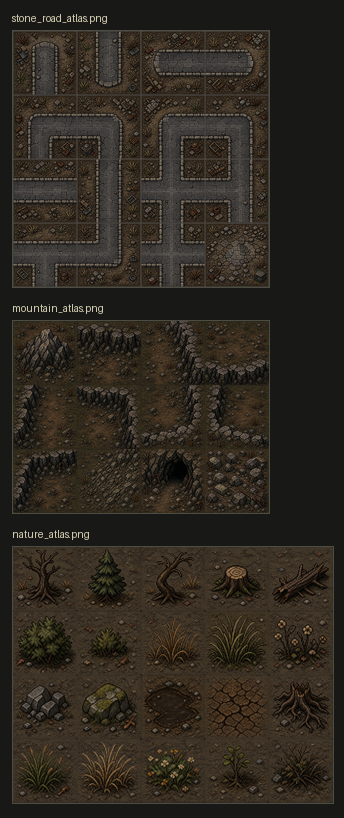
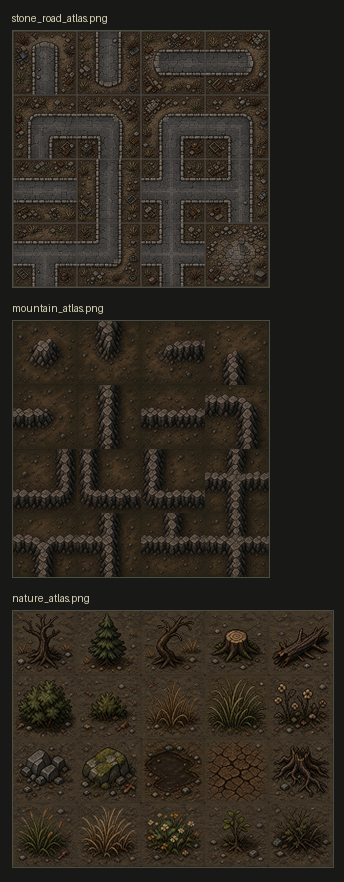
Fix mountain atlas connectivity

Changed region(s): [[0.0291, 0.0, 0.9884, 1.0]]

diff --git a/tools/art_pipeline/generate_nature_environment_assets.py b/tools/art_pipeline/generate_nature_environment_assets.py
@@ -41,23 +41,27 @@ ATLASES = {
         ],
     },
     "mountain_atlas": {
-        "source": RAW / "imagegen_mountain_atlas_source.png",
+        "source": RAW / "imagegen_mountain_connectable_atlas_source.png",
         "output": TILES / "mountain_atlas.png",
         "columns": 4,
-        "rows": 3,
+        "rows": 4,
         "tiles": [
-            "mountain_center",
-            "mountain_edge_top",
-            "mountain_edge_right",
-            "mountain_edge_bottom",
-            "mountain_edge_left",
-            "mountain_corner_top_right",
-            "mountain_corner_bottom_right",
-            "mountain_corner_bottom_left",
-            "mountain_corner_top_left",
-            "gravel_slope",
-            "cave_mouth",
-            "boulder_field",
+            "mountain_isolated",
+            "mountain_end_north",
+            "mountain_end_east",
+            "mountain_end_south",
+            "mountain_end_west",
+            "mountain_straight_ns",
+            "mountain_straight_ew",
+            "mountain_corner_ne",
+            "mountain_corner_es",
+            "mountain_corner_sw",
+            "mountain_corner_wn",
+            "mountain_t_nes",
+            "mountain_t_esw",
+            "mountain_t_swn",
+            "mountain_t_wne",
+            "mountain_cross",
         ],
     },
     "nature_atlas": {
@@ -135,10 +139,10 @@ def choose_grid_runs(image: Image.Image, columns: int, rows: int) -> tuple[list[
     return vertical, horizontal
 
 
-def extract_atlas(source_path: Path, output_path: Path, columns: int, rows: int) -> None:
+def extract_cells(source_path: Path, columns: int, rows: int) -> list[Image.Image]:
     source = Image.open(source_path).convert("RGBA")
     vertical, horizontal = choose_grid_runs(source, columns, rows)
-    atlas = Image.new("RGBA", (columns * TILE, rows * TILE), (0, 0, 0, 0))
+    cells: list[Image.Image] = []
     for row in range(rows):
         for column in range(columns):
             left = vertical[column][1] + 1
@@ -146,8 +150,17 @@ def extract_atlas(source_path: Path, output_path: Path, columns: int, rows: int)
             top = horizontal[row][1] + 1
             bottom = horizontal[row + 1][0]
             cell = source.crop((left, top, right, bottom)).resize((TILE, TILE), Image.Resampling.LANCZOS)
-            cell = cell.convert("RGBA")
-            atlas.alpha_composite(cell, (column * TILE, row * TILE))
+            cells.append(cell.convert("RGBA"))
+    return cells
+
+
+def extract_atlas(source_path: Path, output_path: Path, columns: int, rows: int) -> None:
+    cells = extract_cells(source_path, columns, rows)
+    atlas = Image.new("RGBA", (columns * TILE, rows * TILE), (0, 0, 0, 0))
+    for index, cell in enumerate(cells):
+        column = index % columns
+        row = index // columns
+        atlas.alpha_composite(cell, (column * TILE, row * TILE))
     output_path.parent.mkdir(parents=True, exist_ok=True)
     atlas.save(output_path)
 
@@ -170,7 +183,50 @@ def build_preview(outputs: list[Path]) -> Path:
     return path
 
 
-def update_manifest(preview: Path) -> None:
+def build_mountain_connectivity_preview(mountain_atlas_path: Path) -> Path:
+    atlas = Image.open(mountain_atlas_path).convert("RGBA")
+    tile_names = {
+        "iso": 0,
+        "n": 1,
+        "e": 2,
+        "s": 3,
+        "w": 4,
+        "ns": 5,
+        "ew": 6,
+        "ne": 7,
+        "es": 8,
+        "sw": 9,
+        "wn": 10,
+        "nes": 11,
+        "esw": 12,
+        "swn": 13,
+        "wne": 14,
+        "cross": 15,
+    }
+    layout = [
+        ["iso", "n", "n", "iso", "iso", "iso"],
+        ["e", "cross", "cross", "ew", "es", "iso"],
+        ["iso", "ns", "iso", "iso", "ns", "iso"],
+        ["e", "wne", "ew", "ew", "swn", "w"],
+        ["iso", "s", "iso", "iso", "s", "iso"],
+    ]
+    preview = Image.new("RGBA", (len(layout[0]) * TILE, len(layout) * TILE), (30, 29, 24, 255))
+    for row_index, row in enumerate(layout):
+        for column_index, tile_name in enumerate(row):
+            tile_index = tile_names[tile_name]
+            tile = atlas.crop((
+                (tile_index % 4) * TILE,
+                (tile_index // 4) * TILE,
+                (tile_index % 4 + 1) * TILE,
+                (tile_index // 4 + 1) * TILE,
+            ))
+            preview.alpha_composite(tile, (column_index * TILE, row_index * TILE))
+    path = RAW / "mountain_connectivity_preview.png"
+    preview.save(path)
+    return path
+
+
+def update_manifest(preview: Path, mountain_connectivity_preview: Path) -> None:
     if not MANIFEST.exists():
         return
     data = json.loads(MANIFEST.read_text(encoding="utf-8"))
@@ -189,6 +245,7 @@ def update_manifest(preview: Path) -> None:
                 "style": "imagegen_target_reference",
             }
     data.setdefault("previews", {})["nature_environment"] = res(preview)
+    data.setdefault("previews", {})["mountain_connectivity"] = res(mountain_connectivity_preview)
     MANIFEST.write_text(json.dumps(data, ensure_ascii=False, indent=2) + "\n", encoding="utf-8")
 
 
@@ -201,7 +258,8 @@ def main() -> None:
         extract_atlas(source, atlas["output"], atlas["columns"], atlas["rows"])
         outputs.append(atlas["output"])
     preview = build_preview(outputs)
-    update_manifest(preview)
+    mountain_preview = build_mountain_connectivity_preview(ATLASES["mountain_atlas"]["output"])
+    update_manifest(preview, mountain_preview)
     print("Extracted imagegen nature atlases: " + ", ".join(path.name for path in outputs))
 
 

diff --git a/CHANGELOG.md b/CHANGELOG.md
@@ -26,4 +26,4 @@
 - Added generated map objects, buildings, defense pieces, production facilities, wreckage, and city props as paintable TileSet sources, plus empty paint layers for manual scene editing.
 - Rewired `BaseHub` to use a single editor-created `TileMap` node with the shared complete TileSet and named internal layers for manual map painting.
 - Added a bunker/lab interior art kit with entrance, lab floor variants, wall panels, supercomputer, animated screen frames, bed, tables, locker, shelf, and chair assets.
-- Added image-generated natural environment atlas sheets for stone roads, mountain terrain, trees, shrubs, flowers, rocks, and wasteland ground props, with TileSet atlas-source support.
+- Added image-generated natural environment atlas sheets for stone roads, connectable mountain terrain, trees, shrubs, flowers, rocks, and wasteland ground props, with TileSet atlas-source support.